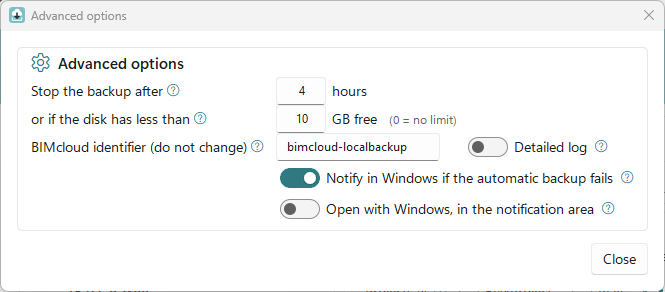
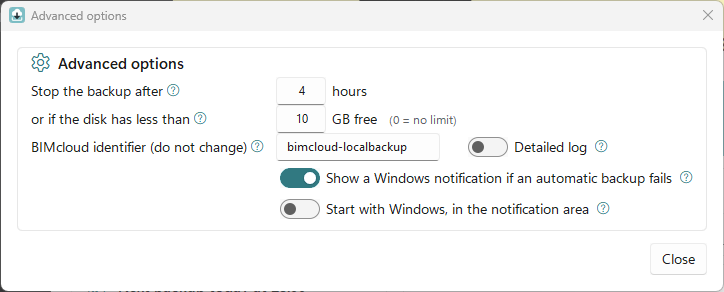
fix: clearer English interface texts (#2)

diff --git a/tests/test_i18n.py b/tests/test_i18n.py
@@ -42,6 +42,13 @@ def test_both_languages_have_the_same_texts_and_fields():
         assert text.strip() and portuguese[key].strip(), key
 
 
+@pytest.mark.parametrize("language", sorted(i18n.LANGUAGES))
+def test_texts_have_no_control_characters(language):
+    # A Windows path like "\folder" written with one backslash in JSON becomes "\f" + "older".
+    for key, text in i18n.texts(language).items():
+        assert not any(ord(c) < 32 and c != "\n" for c in text), key
+
+
 def test_every_text_the_code_asks_for_exists():
     english = i18n.texts("en")
     missing = []

diff --git a/docs/GUIDE.md b/docs/GUIDE.md
@@ -96,12 +96,12 @@ In step **1. Connection to BIMcloud**:
 
 1. In **Address**, type the address you use in the browser to open BIMcloud Manager, starting
    with `https://`.
-2. **User (optional):** your BIMcloud e-mail, only to have it filled in on the login page.
+2. **Username (optional):** your BIMcloud email, only so it is already filled in on the sign-in page.
 3. Click **Sign in to BIMcloud**. The browser opens the BIMcloud login page.
 4. Sign in as usual, two-step verification included, within 5 minutes.
 5. When it works, **"Signed in as <your user>"** shows up.
 
-If the browser does not open, click **The browser did not open? Copy the login address** and open
+If the browser does not open, click **Browser did not open? Copy the sign-in address** and open
 that address in any browser, even on another computer.
 
 Your password never goes through this program. The sign-in is kept in the Windows Credential
@@ -137,8 +137,8 @@ In **Projects as**, choose how each project is kept:
 | **PLN** | the latest `.pln` made by BIMcloud; if there is none, the `.BIMProject` | To open it straight in Archicad |
 | **Both** | the two | The safest option, if there is room |
 
-**Include BIMcloud's snapshots (backups)** in the `.BIMProject` or the `.BIMLibrary` also keeps
-the snapshots BIMcloud has of each item. The file becomes much larger.
+In **Include BIMcloud snapshots (backups) in**, checking **.BIMProject** or **.BIMLibrary**
+also keeps the snapshots BIMcloud has of each item. The file becomes much larger.
 
 ## 6. Where to save, history and limits
 
@@ -160,9 +160,9 @@ window):
 - **Stop the backup after _X_ hours** or **if the disk has less than _Y_ GB free** (`0` = no
   limit).
 - **BIMcloud identifier (do not change):** only change it if support asks.
-- **Notify in Windows if the automatic backup fails:** on by default.
+- **Show a Windows notification if an automatic backup fails:** on by default.
 - **Detailed log:** turn it on only to look into a problem.
-- **Open with Windows, in the notification area:** off by default.
+- **Start with Windows, in the notification area:** off by default.
 
 ## 7. Automatic backup
 
@@ -178,8 +178,8 @@ In step **5. Automatic backup**:
 The panel on the left then shows "Next backup ...".
 
 - The backup runs through the Windows Task Scheduler, even with the program closed, while you are
-  signed in to Windows (the screen may be locked). On a server, check **Run even with nobody
-  signed in** (section 14).
+  signed in to Windows (the screen may be locked). On a server, check **Run even when nobody
+  is signed in** (section 14).
 - **Back up now** tests it right away. During the backup, the window shows the progress.
 - **Cancel backup** stops in a few seconds; what was copied in that run is discarded and no old
   backup is deleted.
@@ -241,10 +241,10 @@ technical messages** copies the text to send to whoever is helping you (section 
 | --- | --- |
 | BIMcloud could not create the file | Export the item in BIMcloud Manager. If it fails there too, talk to Graphisoft support |
 | The destination disk ran out of space | Free some space or choose another destination |
-| BIMcloud took too long to answer | Try later, at a quieter time |
+| BIMcloud took too long to respond | Try again later, at a quieter time |
 | The item no longer exists on BIMcloud | It was deleted, moved or renamed. Check the chosen folders |
-| The access to BIMcloud expired | Click **Sign in again** and repeat the backup |
-| The connection to BIMcloud dropped | Check the internet and repeat the backup |
+| Your BIMcloud access expired | Click **Sign in again** and repeat the backup |
+| The connection to BIMcloud dropped | Check your internet connection and repeat the backup |
 
 ## 10. Troubleshooting
 
@@ -252,7 +252,7 @@ technical messages** copies the text to send to whoever is helping you (section 
 | --- | --- |
 | **"Access expired: sign in again"** | Click **Sign in again**. The automatic backups work again right after |
 | **"No connection to BIMcloud"** | Check the internet and the **Address**; open the same address in the browser |
-| **"The login was not completed in 5 minutes."** | Click **Sign in to BIMcloud** again and finish the login in the browser |
+| **"Sign-in was not completed within 5 minutes."** | Click **Sign in to BIMcloud** again and complete the sign-in in the browser |
 | **"source folder not found on BIMcloud"** (or project, or library) | Something chosen was renamed, moved or deleted. Use **Choose...** and save again |
 | **"Free space below X GB on ..."** | Free some space, choose another destination or keep fewer days |
 | **"Time limit of X h reached"** | Raise the limit in **Advanced options**; the first backup is the slowest |
@@ -298,8 +298,8 @@ The program runs on Windows Server 2016, 2019, 2022 and 2025.
 
 1. Sign in to the server's Windows with the account that will make the backups and, in it, sign
    in to BIMcloud through the program (section 3).
-2. In step **5. Automatic backup**, turn on the switch and check **Run even with nobody signed
-   in**.
+2. In step **5. Automatic backup**, turn on the switch and check **Run even when nobody is
+   signed in**.
 3. Click **Save changes** and type the password of that Windows account. It stays with the
    Windows Task Scheduler, not with the program.
 
@@ -312,11 +312,11 @@ The program runs on Windows Server 2016, 2019, 2022 and 2025.
 **Destination on the network:** use the `\\server\backups` path, not a mapped letter (`Z:`),
 which does not exist with nobody signed in. The account must be able to write to the share.
 
-**Sign-in:** if the server's browser does not open the BIMcloud page, use **Copy the login
-address** (section 3) and sign in on any browser.
+**Sign-in:** if the server's browser does not open the BIMcloud page, use **Browser did not open? Copy
+the sign-in address** (section 3) and sign in on any browser.
 
 **Notifications:** with nobody signed in, the Windows notification does not show; the result is
-in the "Last backup" panel and in the log.
+in the **LAST BACKUP** panel and in the log.
 
 ### Server Core (no graphical interface)
 

diff --git a/docs/GUIDE.pt-BR.md b/docs/GUIDE.pt-BR.md
@@ -310,11 +310,11 @@ O programa roda no Windows Server 2016, 2019, 2022 e 2025.
 **Destino na rede:** use o caminho `\\servidor\backups`, não uma letra mapeada (`Z:`), que não
 existe sem ninguém conectado. A conta precisa poder gravar no compartilhamento.
 
-**Login:** se o navegador do servidor não abrir a página do BIMcloud, use **Copiar o endereço do
-login** (seção 3) e entre em qualquer navegador.
+**Login:** se o navegador do servidor não abrir a página do BIMcloud, use **O navegador não abriu? Copiar
+o endereço do login** (seção 3) e entre em qualquer navegador.
 
 **Avisos:** sem ninguém conectado, o aviso do Windows não aparece; o resultado fica no quadro
-"Último backup" e no log.
+**ÚLTIMO BACKUP** e no log.
 
 ### Server Core (sem interface gráfica)
 
